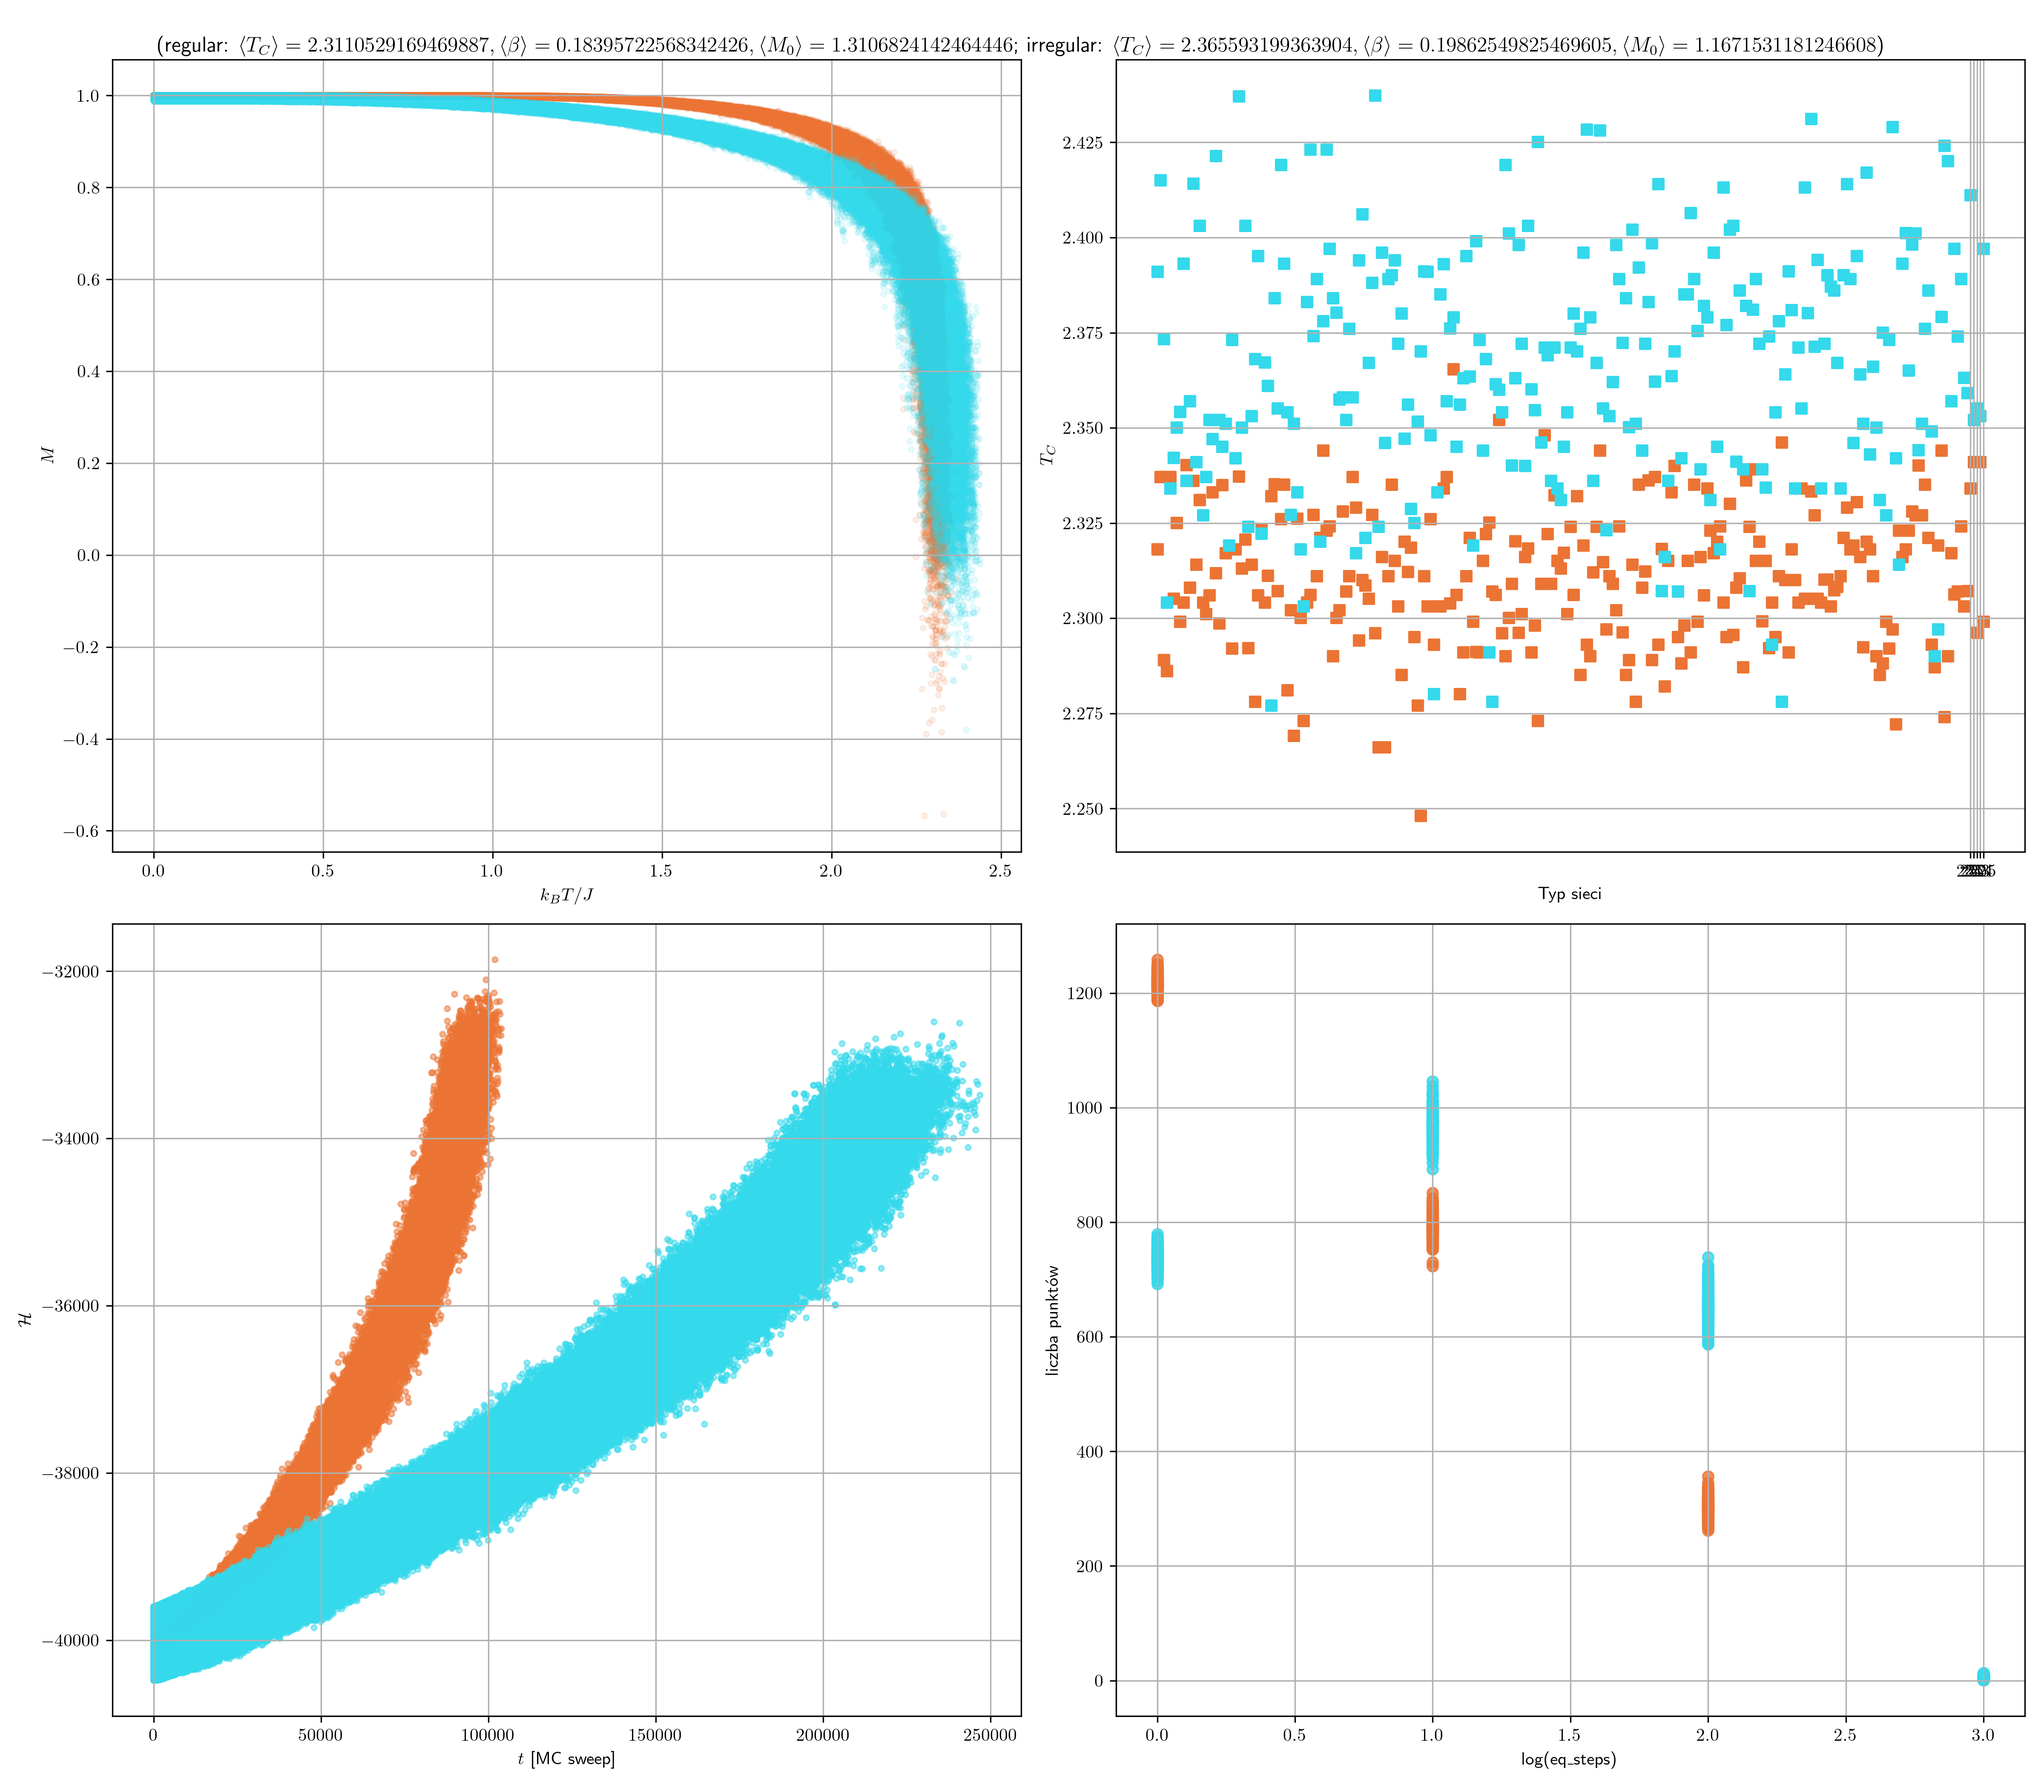
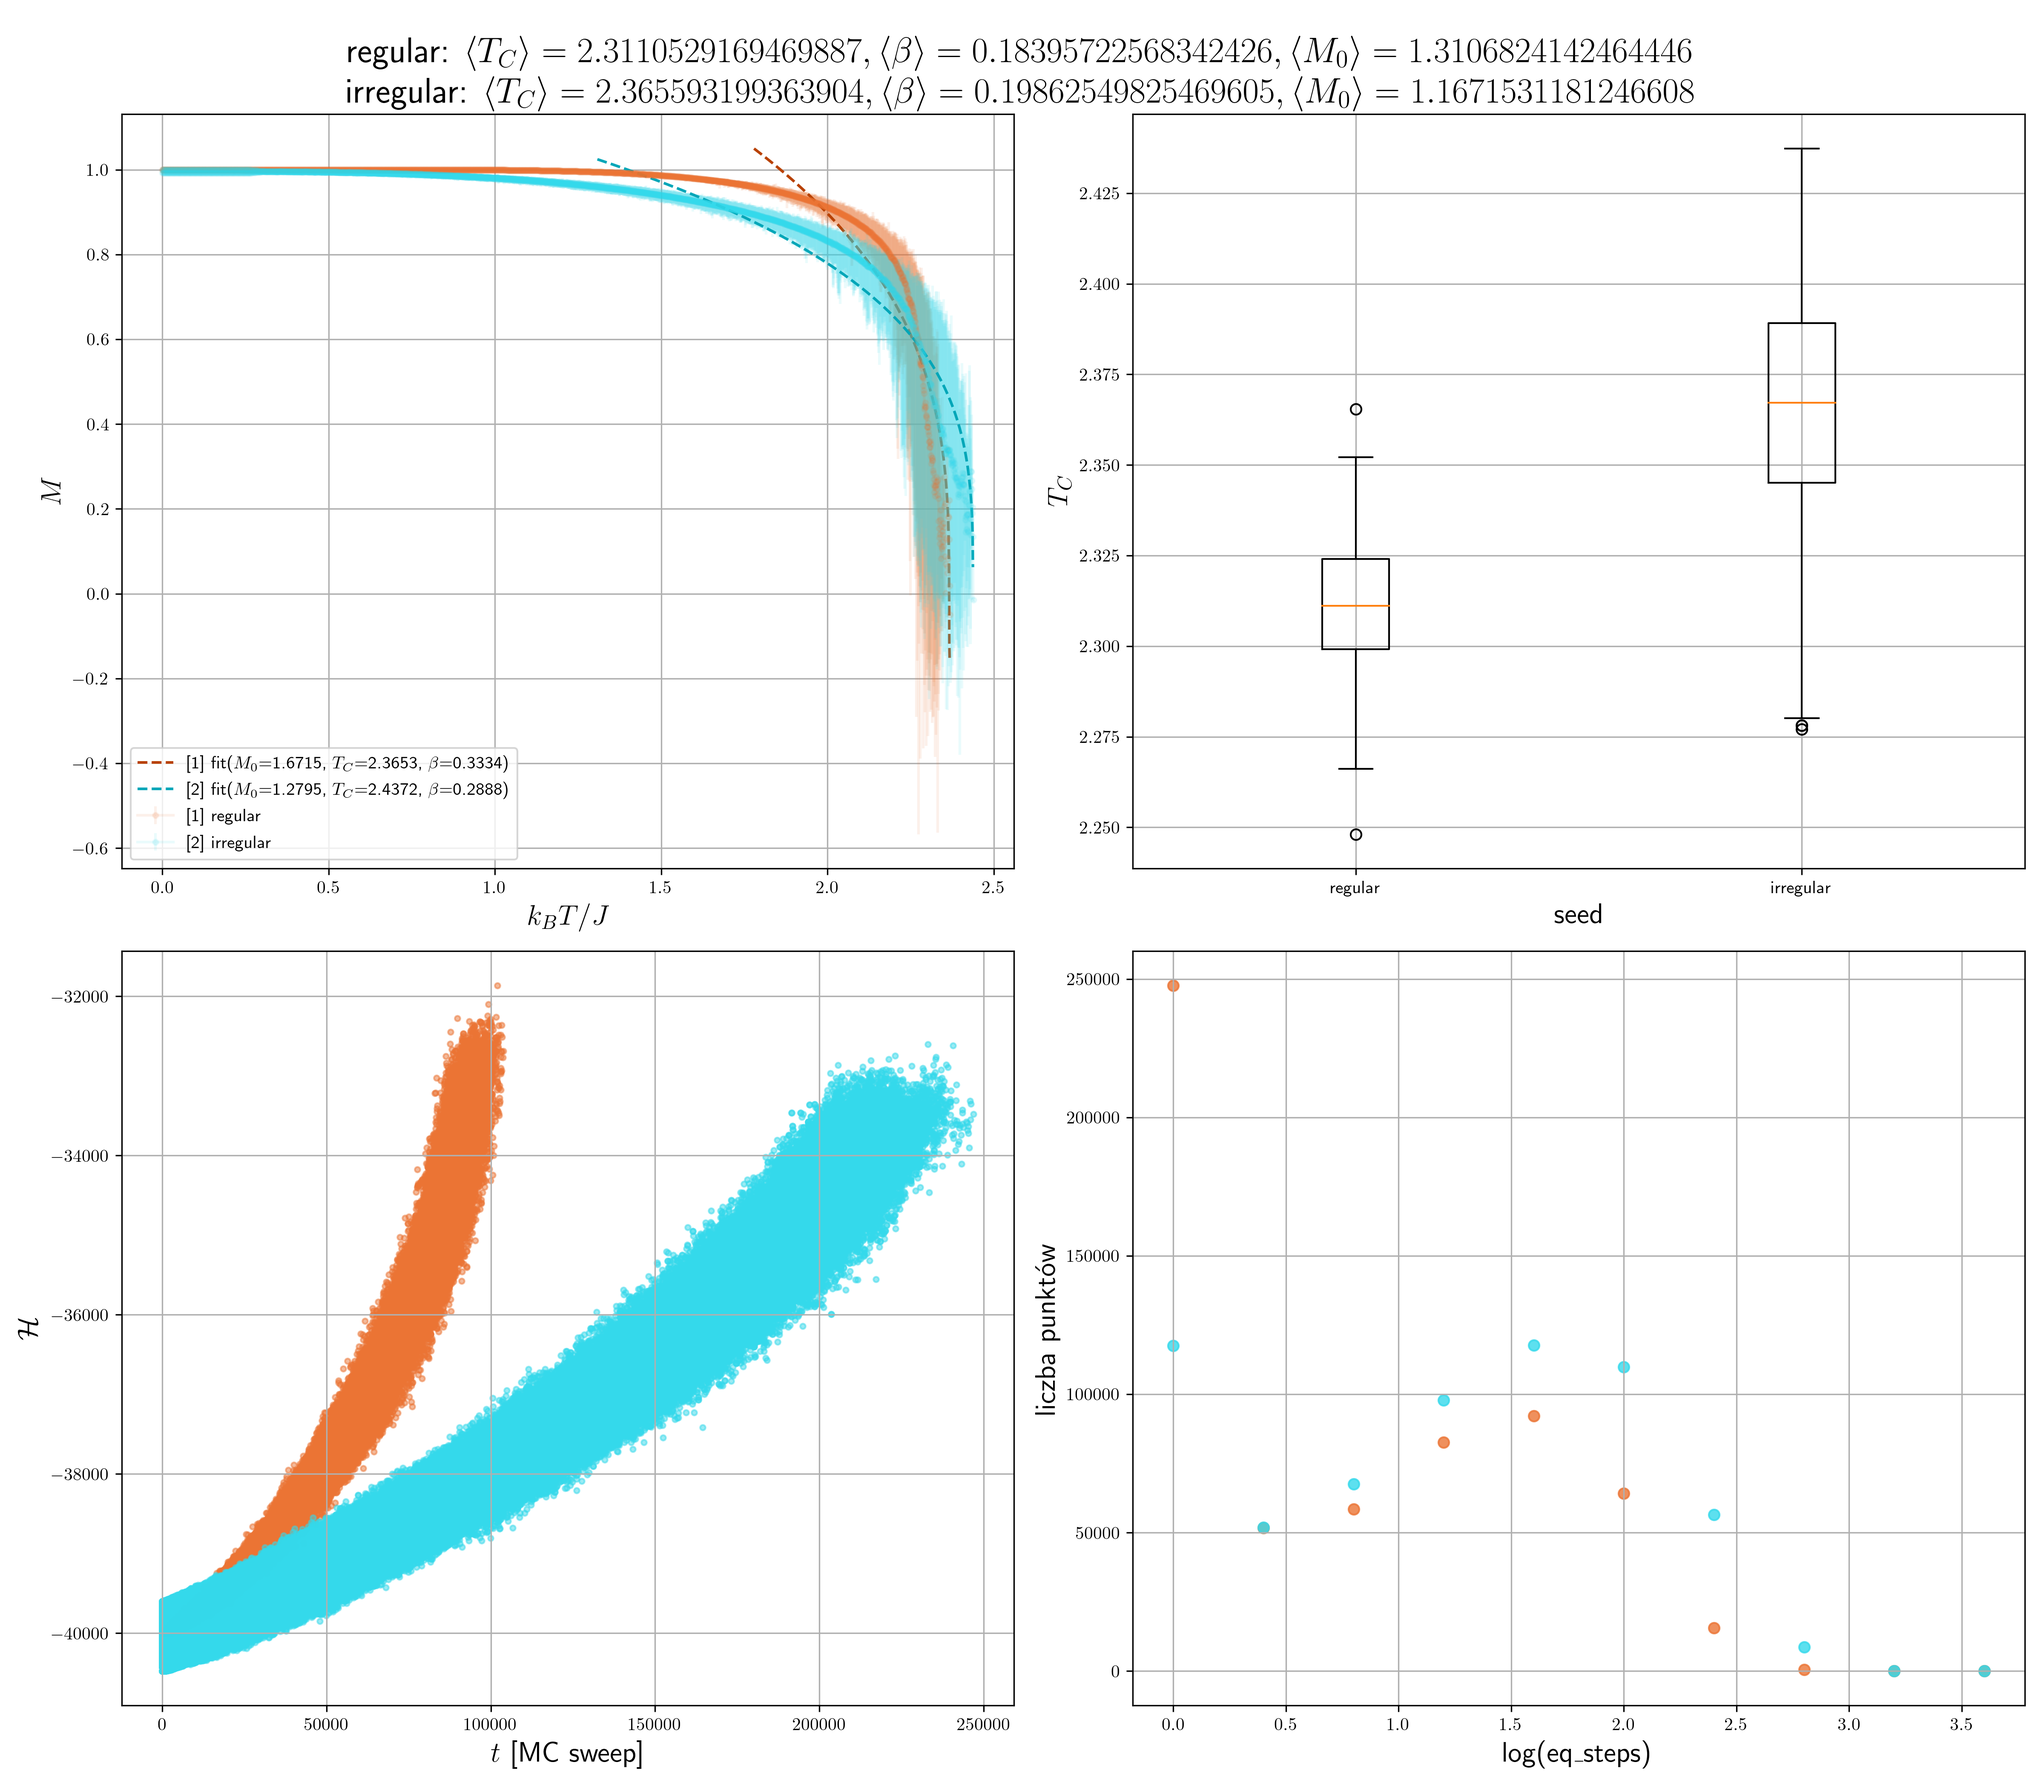
nsq;

diff --git a/cmp/cmp_phase.py b/cmp/cmp_phase.py
@@ -7,6 +7,7 @@ import sys
 import pathlib
 import json
 from scipy.optimize import curve_fit
+from scipy.stats.mstats import gmean
 import plot_constants
 from fit_phase import curve_fit, fit_plot, mt_fit, slice_data
 from functools import reduce
@@ -14,10 +15,23 @@ import re
 from dataclasses import dataclass, field
 
 @dataclass
+class DataPoint:
+  ts: list[float]
+  ms: list[float]
+  deg_avg: float
+  deg_mse: float
+  seed: int
+  energy: list[float]
+  time: list[float]
+  n: list[float] 
+  desc: dict
+
+@dataclass
 class Group:
   pattern: str
   label: str
   paths: list[str] = field(default_factory=list)
+  data: list[DataPoint] = field(default_factory=list)
   descs: list[dict] = field(default_factory=list)
 
 @dataclass
@@ -68,21 +82,18 @@ def ext_avg(xs, length=None):
   m, s, M = reduce(lambda u, x: (min(u[0], x), u[1] + x, max(u[2], x)), xs, (float('inf'), 0, float('-inf')))
   return m, s/(length or len(xs)), M
 
-def plot_avg_err(paths, ax, colour, name, label, bounds):
+def plot_avg_err(data, ax, colour, name, label, bounds):
   t_label, m_label = 'T', 'M'
 
   ts, mss = [], []
   ms = []
   errs = [[], []]
 
-  for path in paths:
-    df = pd.read_csv(path)
-
-    ts_new = df[t_label]
+  for dp in data:
+    ts_new = dp.ts
     ts = ts_new if len(ts_new) > len(ts) else ts
 
-    #if len(ms := ) > 1 or len(paths) == 1:
-    mss.append(list(df[m_label]))
+    mss.append(dp.ms)
 
   for i in range(0, max(len(ms) for ms in mss)):
     mms = [ms[i] for ms in mss if i < len(ms)]
@@ -131,51 +142,35 @@ def uzip(ps):
 
   return xs, ys
   
+def bin_up(xs: list[float], bins=10, mn=None, mx=None):
+  m, M = mn or min(xs), mx or max(xs)
 
-def plot_dist(group, ax, fig, colour, name, label, bounds, reg: dict[str, ParamRegister]):
-  @dataclass
-  class DataPoint:
-    ts: list[float]
-    ms: list[float]
-    deg_avg: float
-    deg_mse: float
-    seed: int
-    energy: list[float]
-    time: list[float]
-    n: list[float] 
-    desc: dict
+  db = (M - m)/bins
+  boundaries = [((db*i, db*(i+1)), []) for i in range(bins)]
 
-  ax_main, ax_dist, ax_energy, ax_n = fig.get_axes()
+  for x in xs:
+    for ((l, h), ys) in boundaries:
+      if l <= x < h:
+        ys.append(x)
+
+  return boundaries
+
+def plot_dist(group, ax, fig, colour, name, label, bounds, reg: dict[str, ParamRegister], data: list[DataPoint]):
+  ax_main, ax_dist, ax_energy, ax_relax = fig.get_axes()
   t_label, m_label = 'T', 'M'
-  data = []
-
-  for i, path in enumerate(group.paths):
-    df = pd.read_csv(path)
-    desc = group.descs[i]
-
-    data.append(DataPoint(
-      ts=df['T'], 
-      ms=df['M'], 
-      deg_avg=desc['deg_avg'], 
-      deg_mse=desc['deg_mse'], 
-      seed=desc['seed'], 
-      energy=df['E'], 
-      time=df['t'], 
-      n=df['n'],
-      desc=desc))
 
   ax_main.set_xlabel('$k_BT/J$')
   ax_main.set_ylabel('$M$')
 
-  for dp in data:
+  for i, dp in enumerate(data):
+    print(f'{chr(27)}[2J{i}/{len(data)}')
+
     # plot the data
-    # ax_.errorbar(ts, ms, marker='.', color=(*colour, 0.1), label=f'[{name}] {label}', yerr=errs)
     label = f'[{name}] seed={dp.seed} deg_avg={dp.deg_avg}'
-    ax_main.scatter(dp.ts, dp.ms, marker='.', color=(*colour, 0.1), label=label)
+    # ax_main.scatter(dp.ts, dp.ms, marker='.', color=(*colour, 0.1), label=label)
 
     try:
       # plot a fitted line
-      print(dp.seed)
       ts_fit, ms_fit, fit_params = fit_plot(dp.ts, dp.ms, bounds)
       m0, tc, beta = fit_params
 
@@ -188,17 +183,6 @@ def plot_dist(group, ax, fig, colour, name, label, bounds, reg: dict[str, ParamR
       #   label=f'[{name}] fit($M_0$={round(m0, 4)}, $T_C$={round(tc, 4)}, $\\beta$={round(beta, 4)})'
       # )
 
-      # Plot param dist
-      ax_dist.set_xlabel(r'Typ sieci')
-      ax_dist.set_ylabel(r'$T_C$')
-      ax_dist.scatter(
-        [dp.seed],
-        [tc],
-        color=(*colour, 1),
-        marker='s'
-      )
-      ax_dist.set_xticks(dp.desc['config']['seeds'])
-
       # Plot energy of time
       ax_energy.set_xlabel(r'$t$ [MC sweep]')
       ax_energy.set_ylabel(r'$\mathcal{H}$')
@@ -208,34 +192,31 @@ def plot_dist(group, ax, fig, colour, name, label, bounds, reg: dict[str, ParamR
         color=(*colour, 0.5),
         marker='.'
       )
-
-      ns, gs = uzip(log_dist(dp.n, dp.ts))
-
-      # Plot eq_steps log_10 distribution
-      ax_n.set_xlabel(r'log(eq_steps)')
-      ax_n.set_ylabel('liczba punktów')
-
-      ax_n.scatter(
-        ns,
-        [len(g) for g in gs],
-        color=(*colour, 0.5), label=label,
-        alpha=0.8
-      )
     except:
       print(f'Failed to fit a curve; seed={dp.seed}')
+
+  # Plot param dist
+  ax_dist.set_xlabel(r'seed')
+  ax_dist.set_ylabel(r'$T_C$')
+  ax_dist.boxplot(
+    [reg[group.label].tc],
+    positions=[name],
+    labels=[group.label]
+  )
 
 def main(paths: list[str]):
   plt.rcParams.update({'lines.markeredgewidth': 1})
   plt.rcParams['text.usetex'] = True
+  plt.rcParams['axes.labelsize'] = 16
 
   colours = plot_constants.plot_colours
   colour_keys = list(colours.keys())
 
-  fig, ((ax, ax2), (ax3, ax4)) = plt.subplots(2, 2, figsize=(16,14), dpi=300) # subplots(figsize=(10,7), dpi=300)
-  ax.grid(which='both')
-  ax2.grid(which='both')
-  ax3.grid(which='both')
-  ax4.grid(which='both')
+  fig, ((ax_main, ax_dist), (ax_energy, ax_relax)) = plt.subplots(2, 2, figsize=(16,14), dpi=300)
+  ax_main.grid(which='both')
+  ax_dist.grid(which='both')
+  ax_energy.grid(which='both')
+  ax_relax.grid(which='both')
 
   groups = [Group(pattern='/regular/', label='regular'), Group(pattern='/irregular/', label='irregular')]
 
@@ -245,6 +226,7 @@ def main(paths: list[str]):
   }
 
 
+  # make groups
   for path in paths:
     for group in groups:
       if re.search(group.pattern, path) != None:
@@ -256,29 +238,65 @@ def main(paths: list[str]):
         group.descs.append(desc)
         break
 
+  # make data points
+  for group in groups:
+    for i, path in enumerate(group.paths):
+      df = pd.read_csv(path)
+      desc = group.descs[i]
+
+      group.data.append(DataPoint(
+        ts=df['T'], 
+        ms=df['M'], 
+        deg_avg=desc['deg_avg'], 
+        deg_mse=desc['deg_mse'], 
+        seed=desc['seed'], 
+        energy=df['E'], 
+        time=df['t'], 
+        n=df['n'],
+        desc=desc))
+
+  # plot data
   for group, i in zip([g for g in groups if len(g.paths) > 0], range(1, len(paths) + 1)):
+    colour = colours[colour_keys[(i - 1) % len(colour_keys)]]
+    bounds = (1e-12, 5)
+
     plot_dist(
       group=group,
-      ax=ax,
+      ax=ax_main,
       fig=fig,
-      colour=colours[colour_keys[(i - 1) % len(colour_keys)]],
+      colour=colour,
       name=i,
-      label=group.pattern,
-      bounds=(1e-12, 5),
-      reg=param_reg
+      label=group.label,
+      bounds=bounds,
+      reg=param_reg,
+      data=group.data
     )
 
+    plot_avg_err(
+      data=group.data, 
+      ax=ax_main, 
+      colour=colour, 
+      name=i, 
+      label=group.label, 
+      bounds=bounds
+    )
 
-    # plot_avg_err(
-    #   paths=group.paths, 
-    #   ax=ax2, 
-    #   colour=colours[colour_keys[(i - 1) % len(colour_keys)]], 
-    #   name=i, 
-    #   label=group.pattern, 
-    #   bounds=(1e-12, 5)
-    # )
+    ns = []
+    for dp in group.data:
+      ns.extend(np.log10(dp.n))
 
-  fig.suptitle(f"""(regular: {param_reg['regular']}; irregular: {param_reg['irregular']})""")
+    xs, ys = uzip(bin_up(ns, mn=0, mx=4))
+
+    ax_relax.set_xlabel(r'log(eq_steps)')
+    ax_relax.set_ylabel('liczba punktów')
+    ax_relax.scatter(
+      [x[0] for x in xs],
+      [len(y) for y in ys],
+      color=(*colour, 0.8)
+    )
+
+  fig.suptitle(f"""regular: {param_reg['regular']}\n irregular: {param_reg['irregular']}""", fontsize=20)
+  ax_main.legend()
   fig.tight_layout()
   plt.savefig('plot.png', dpi=300)
 

diff --git a/cmp/fit_phase.py b/cmp/fit_phase.py
@@ -25,6 +25,6 @@ def fit_plot(xs, ys, bounds, f=mt_fit):
   
   popt, _ = curve_fit(f, xn, yn, bounds=bounds, maxfev=1e12) 
   # m0, tc, b = popt
-  print(popt)
+  # print(popt)
   # print(f'M_0={m0}, T_C={tc}, β={b}')
   return xn, [f(t, *popt) for t in xn], popt
